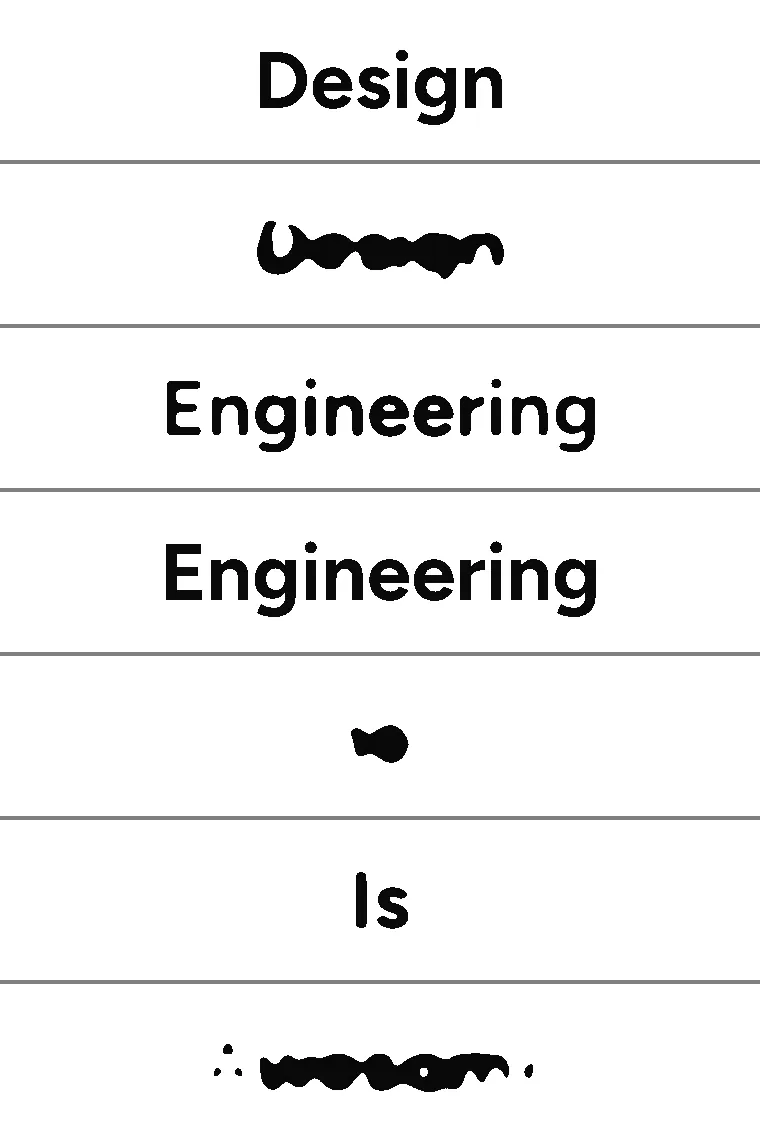
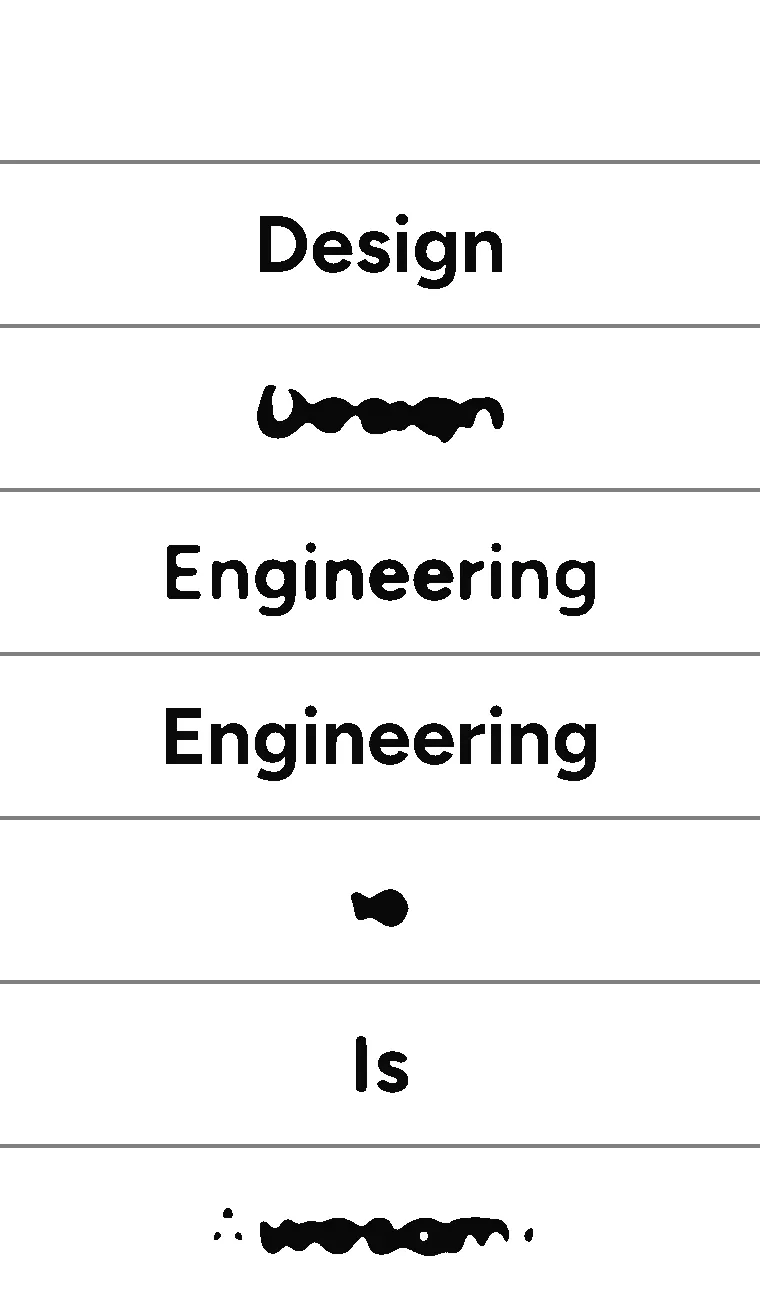
fix(shared): start Gooey Text blank like upstream; first word on the server is opt-in

Changed region(s): [[0.0, 0.0306, 1.0, 0.8872], [0.2724, 0.9178, 0.6961, 0.979]]

diff --git a/ports/victorwelander-gooey-text/gooey-text/gooey-text.tsx b/ports/victorwelander-gooey-text/gooey-text/gooey-text.tsx
@@ -23,8 +23,9 @@ import { cn } from "@/lib/utils";
  *   times frames with performance.now() instead of new Date().
  * - The words are compared by value, so an inline `texts` array does not
  *   restart the morph on every render.
- * - The first word is in the server render (upstream starts empty for
- *   `cooldownTime`).
+ * - `renderFirstWordOnServer` (off by default, so the default matches
+ *   upstream, which starts empty for `cooldownTime`) puts the first word in
+ *   the server render.
  * - The filter id is unique per instance (upstream: "threshold").
  * - The morphing copies are aria-hidden; screen readers get every word once,
  *   in a visually hidden span (or `label`).
@@ -45,6 +46,12 @@ export interface GooeyTextProps {
   label?: string;
   /** Stop the morph where it is. */
   paused?: boolean;
+  /**
+   * Render the first word in the server HTML, so the server render, a
+   * no-JavaScript visit and the first frame show a word instead of nothing.
+   * Off by default, as upstream: the text then appears with the first morph.
+   */
+  renderFirstWordOnServer?: boolean;
 }
 
 const SEPARATOR = "\u0000";
@@ -57,6 +64,7 @@ export function GooeyText({
   textClassName,
   label,
   paused = false,
+  renderFirstWordOnServer = false,
 }: GooeyTextProps) {
   const rootRef = React.useRef<HTMLDivElement>(null);
   const text1Ref = React.useRef<HTMLSpanElement>(null);
@@ -211,7 +219,7 @@ export function GooeyText({
             textClassName,
           )}
         >
-          {words[0]}
+          {renderFirstWordOnServer ? words[0] : null}
         </span>
       </div>
       <span className="sr-only">{label ?? texts.join(", ")}</span>

diff --git a/docs/evidence/ports/gooey-text/fidelity.md b/docs/evidence/ports/gooey-text/fidelity.md
@@ -7,16 +7,16 @@
 - Method: Playwright (S-014) Chromium, device scale 1, light scheme. The upstream demo (its component and demo files as saved, Tailwind loaded because the component's classes need it, Figtree on both sides) and the port's demo render in two harness pages with the same body. Playwright's fake clock is installed at a fixed epoch and **paused before the page loads**, so both sides start their loops at the same clock reading (`new Date()` upstream, `performance.now()` in the port; P-104 does not arise); each side then advances with `runFor` and a full-viewport screenshot is taken at 24 matched times from 100 ms to 9 s (the first morph, the holds, the full 5 s cycle and into the second). pixelmatch (S-152), threshold 0.1. Noise floor: a second load of upstream against the first.
 - Target: at most 0.1% differing pixels per matched frame (owner brief, S-157).
 
-## Result: pixels that differ
+## Result: pixels that differ (default props, as upstream's demo)
 
-| Viewport | Frames | Worst frame from 300 ms | The first 250 ms | Noise floor |
-| --- | --- | --- | --- | --- |
-| 1280x800 | 24 | 0.0000% | 0.6268% (see Deviations) | 0.0000% |
-| 375x812 | 24 | 0.0000% | 1.1816% (see Deviations) | 0.0000% |
+| Viewport | Matched frames (0 ms to 9 s) | Worst frame | Noise floor |
+| --- | --- | --- | --- |
+| 1280x800 | 26 | 0.0000% | 0.0000% |
+| 375x812 | 26 | 0.0177% (54 px, 850 ms, mid first morph) | 0.0000% |
 
-Every frame from 300 ms on is pixel identical at both sizes. The strips were captured on a second run of the same script: the first run measured two 375x812 frames in the middle of the first morph at 54 px (0.0177%, 850 ms) and 8 px (0.0026%, 1000 ms), which did not reproduce (the noise floor was 0 in both runs), so the cause, most likely the fractional milliseconds of `performance.now()` against whole ones of `new Date()`, is not isolated. Both runs are under the 0.1% target.
+Every frame, including the blank first 250 ms (0, 50, 100 and 250 ms), is pixel identical at 1280x800, and at 375x812 all but two: 54 px (0.0177%) at 850 ms and 8 px (0.0026%) at 1000 ms, in the middle of the first morph. These two also appeared on the first of the earlier runs and not on the second; the most likely cause, not isolated, is the fractional milliseconds of `performance.now()` against the whole ones of `new Date()`. All frames are under the 0.1% target. Re-measured by the WEB-1 lead after the first word became opt-in.
 
-Strips (1280x800, the 760x160 band of the viewport that holds the text at 300, 700, 1000, 1500, 2000, 3000 and 4500 ms): [before.webp](before.webp) (upstream), [after.webp](after.webp) (port), [diff.webp](diff.webp) (pixelmatch; red marks a differing pixel; all blank). 375x812: `-375` files.
+Strips (1280x800, the 760x160 band of the viewport that holds the text at 100, 300, 700, 1000, 1500, 2000, 3000 and 4500 ms): [before.webp](before.webp) (upstream), [after.webp](after.webp) (port), [diff.webp](diff.webp) (pixelmatch; red marks a differing pixel; all blank). 375x812: `-375` files.
 
 ## Behavior checks (port, not pixel diffs)
 
@@ -32,7 +32,7 @@ Measured in the same harness (real time):
 
 Every change from upstream. The numbers above are measured on the shipped code, with these changes in place.
 
-- **The first word is in the server render.** Upstream's two spans start empty, so the first `cooldownTime` (0.25 s) shows nothing and then the first morph starts from "Design". The port renders the first word in the second copy, so the server render, the gallery tile and a no-JavaScript visit show a word, and the word holds 0.25 s longer before the first morph. That is the only difference in the first 250 ms and the only frames over the target (above).
+- **`renderFirstWordOnServer` (opt-in, off by default).** By default the port starts empty, like upstream: the first `cooldownTime` (0.25 s) shows nothing, then the first morph starts from "Design". With the prop set, the first word is in the second copy's server render, so the server HTML, a no-JavaScript visit and the first frames show a word (the word then holds 0.25 s before the first morph). Measured with the prop set: 0.6268% (1280x800) and 1.1816% (375x812) in the first 250 ms, identical afterwards; the default, measured above, is what the demo and the wall tile use ("fidelity default", ports/README.md).
 - **The loop is cancelled on unmount** (`cancelAnimationFrame`, observer disconnected), pauses off screen (IntersectionObserver), in a paused gallery tile (`data-loop-paused`, contract 4.3) and with the new `paused` prop, and picks up where it stopped (time that passes while paused is not counted).
 - **Frame times come from `performance.now()`** instead of `new Date()` (whole milliseconds upstream, fractional here).
 - **The words are compared by value**: `texts` is keyed on its joined contents, so a parent that re-renders with an inline array does not restart the morph (upstream's effect depends on the array's identity).
@@ -44,7 +44,7 @@ Every change from upstream. The numbers above are measured on the shipped code, 
 
 ## Enhancements
 
-None to the default look: `label`, `paused`, the registry item's docs and props, `tile` (span 2) and `loop` (hydrated, so the wall tile morphs).
+None to the default look: `label`, `paused`, `renderFirstWordOnServer`, the registry item's docs and props, `tile` (span 2) and `loop` (hydrated, so the wall tile morphs).
 
 ## Credits
 

diff --git a/docs/pitfalls.md b/docs/pitfalls.md
@@ -2272,6 +2272,23 @@ Design From and Design From Labs (the guards enforce this).
 - Prevention: Count `requestAnimationFrame` registrations per second in a StrictMode harness for every ported loop.
 - Links: `docs/evidence/ports/gooey-text/fidelity.md`
 
+### P-WEB1-LEAD-1
+
+- Date: 2026-10-13
+- Area: Fidelity harness (shared tools)
+- Symptom: A fidelity run wrapped in the shared heavy-run wrapper waited up
+  to 30 minutes, and a run under another slot could delete the slot-0 lock
+  that a different run held.
+- Cause: The wrapper and the fidelity script each took the machine-wide
+  slot-0 lock, so the script waited on its own wrapper; the script's unlock
+  removed the slot-0 lock directory whichever slot it actually ran under.
+- Fix: The wrapper exports `HEAVY_SLOT_HELD=1` and the fidelity script skips
+  its own lock when it is set; a run never removes a lock directory it does
+  not own (P-138).
+- Prevention: One layer owns a lock; nested tools check for an inherited
+  slot before locking, and only the owner unlocks.
+- Links: `docs/evidence/ports/gooey-text/fidelity.md`
+
 ### P-139
 
 - Date: 2026-10-13
